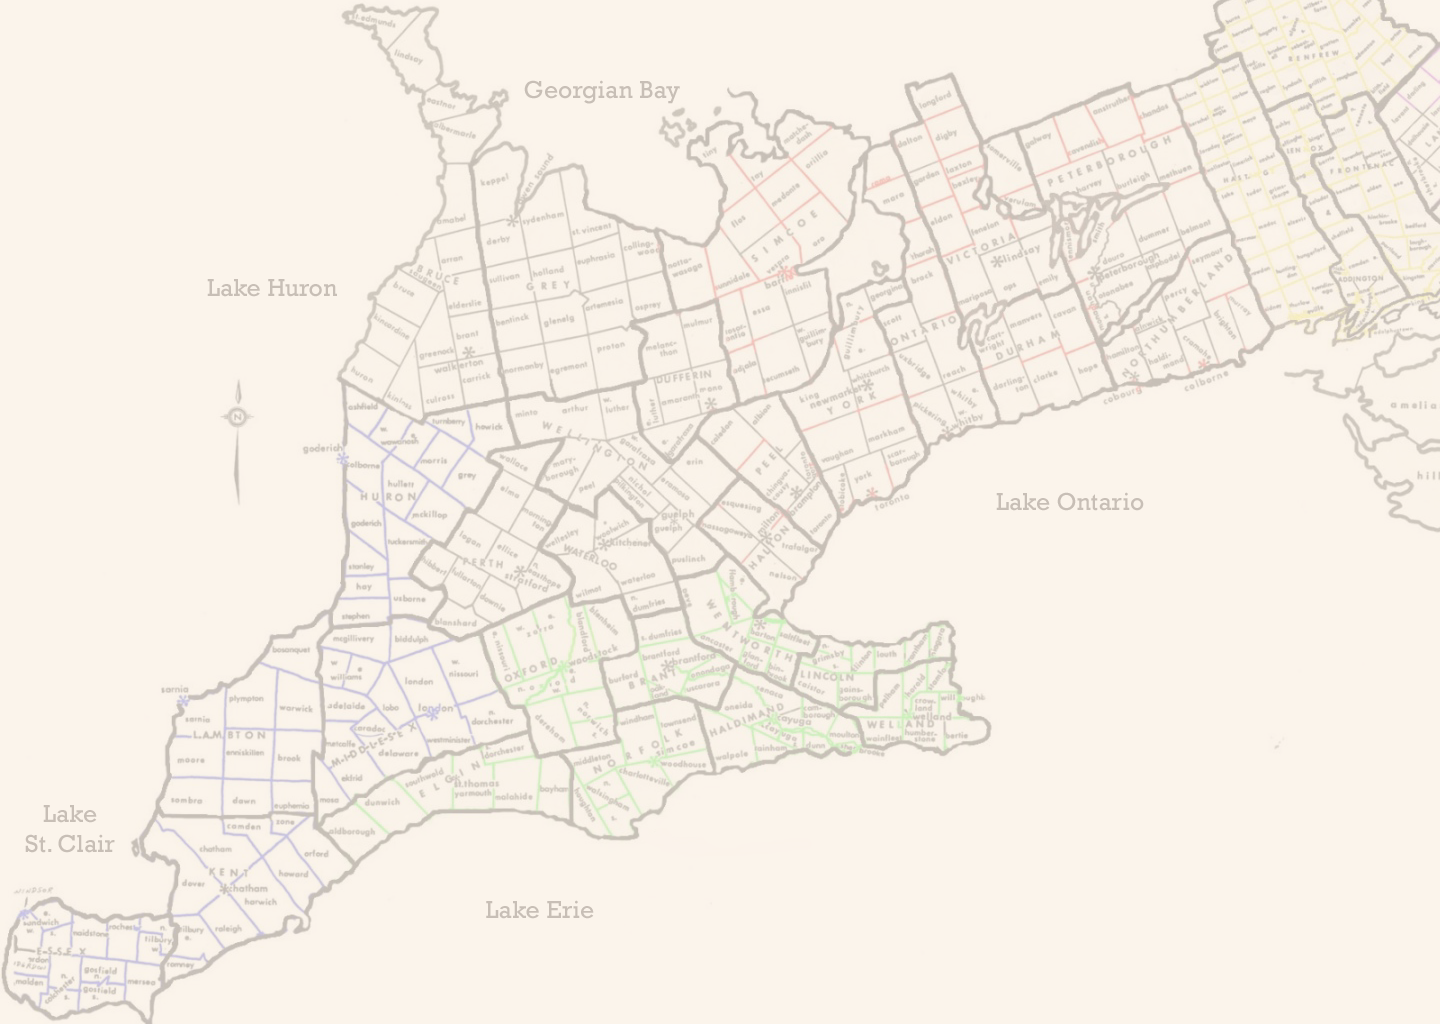
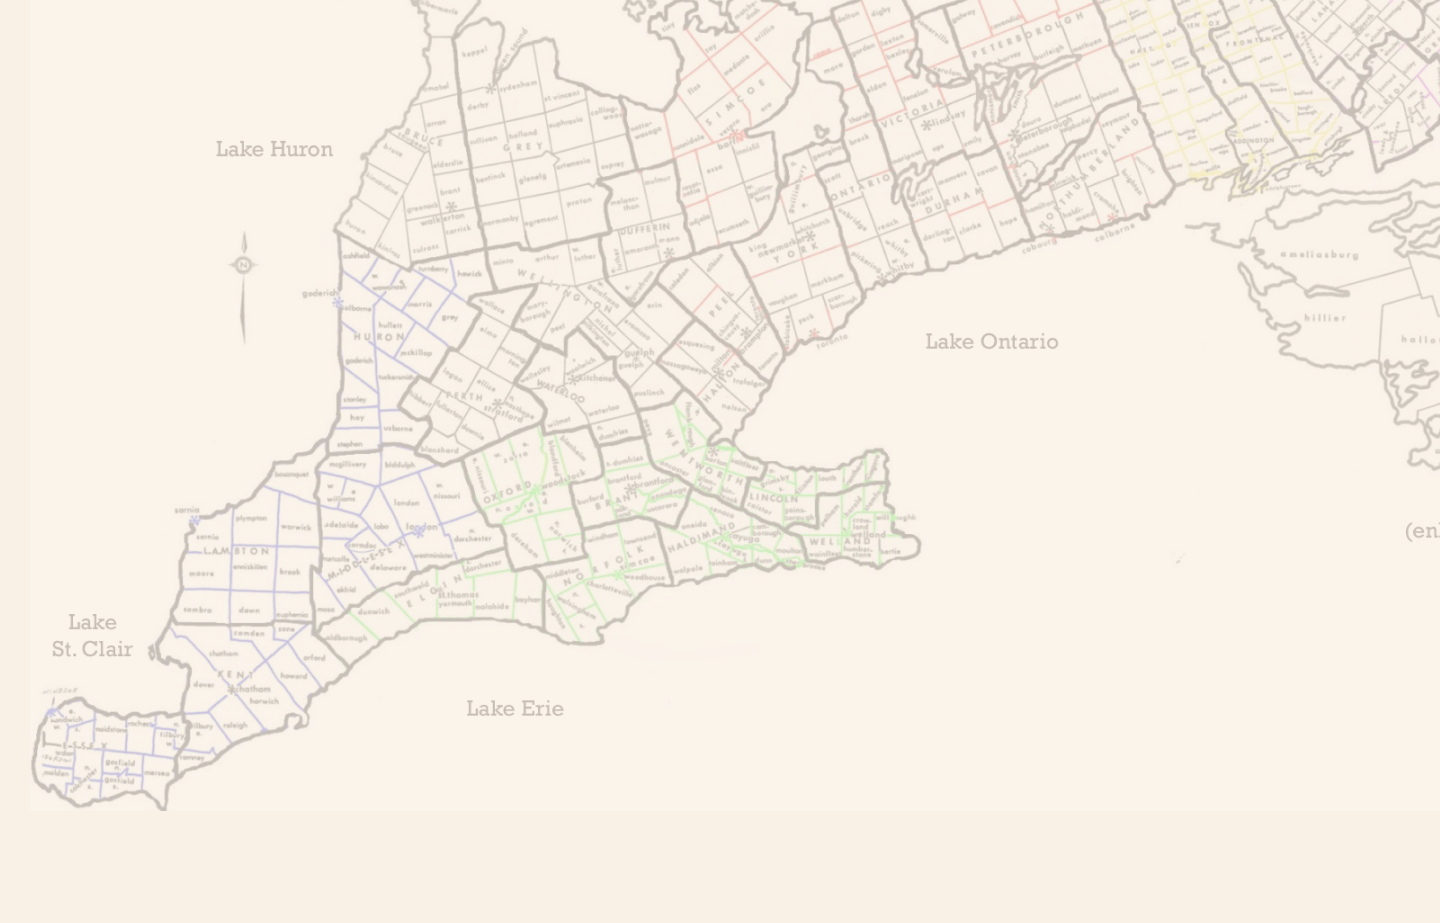
made buttons

diff --git a/index.html b/index.html
@@ -3,18 +3,20 @@
 <head>
     <title> Clean Air Day 2025</title>
     <link rel="stylesheet" href="style.css"/>   
-    <script src="script.py"></script>
+    <script src="script.py"></script>  
 </head>
 <body>
 <h1> Clean Air Day 2025</h1>
 
-<button id="left">
-left
-</button>
+<div class="nav">
+    <button id="left">
+        <img src="left.svg">
+    </button>
+    <button id = "right">
+        <img src="right.svg">
+    </button>
+</div>
 
-<button id = "right">
-right  
-</button>
 </body>
 </html>
 

diff --git a/style.css b/style.css
@@ -1,4 +1,16 @@
 body {
-    background-color: #FAF1E6;
+    background-image: url('Index.png');
+    background-size: cover;
     color: #99BC85;
+}
+
+.nav {
+}
+
+button {
+    border: none;
+    background-color: transparent;
+}
+button:hover {
+    background-color:rgb(207, 216, 202);
 }
